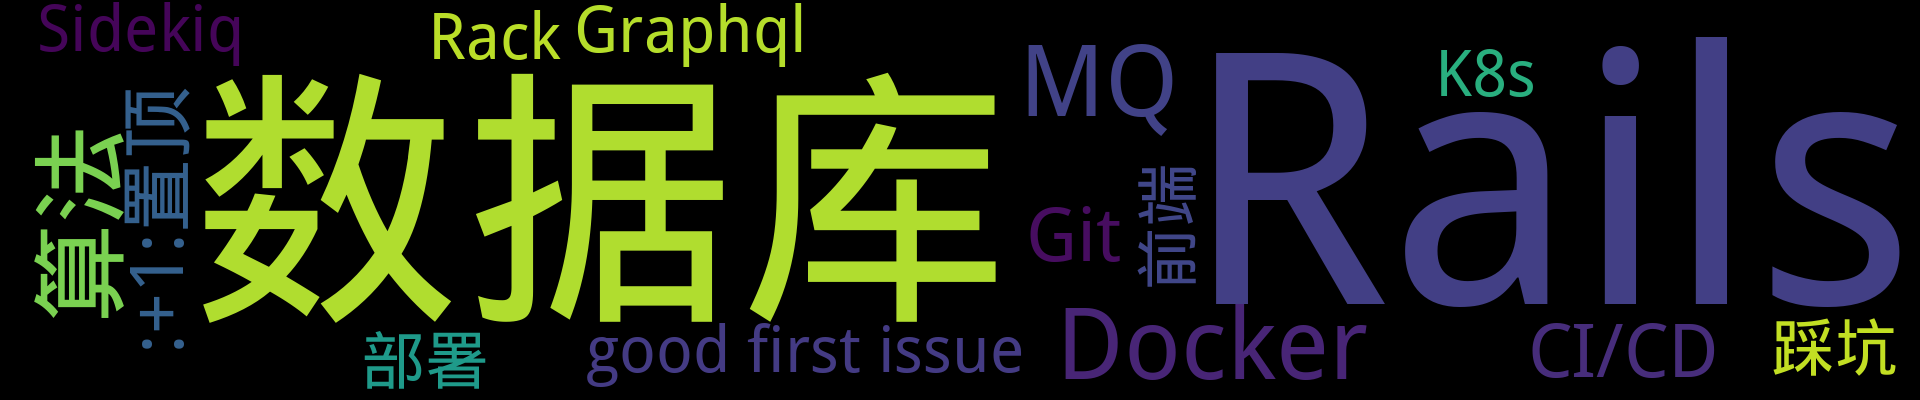
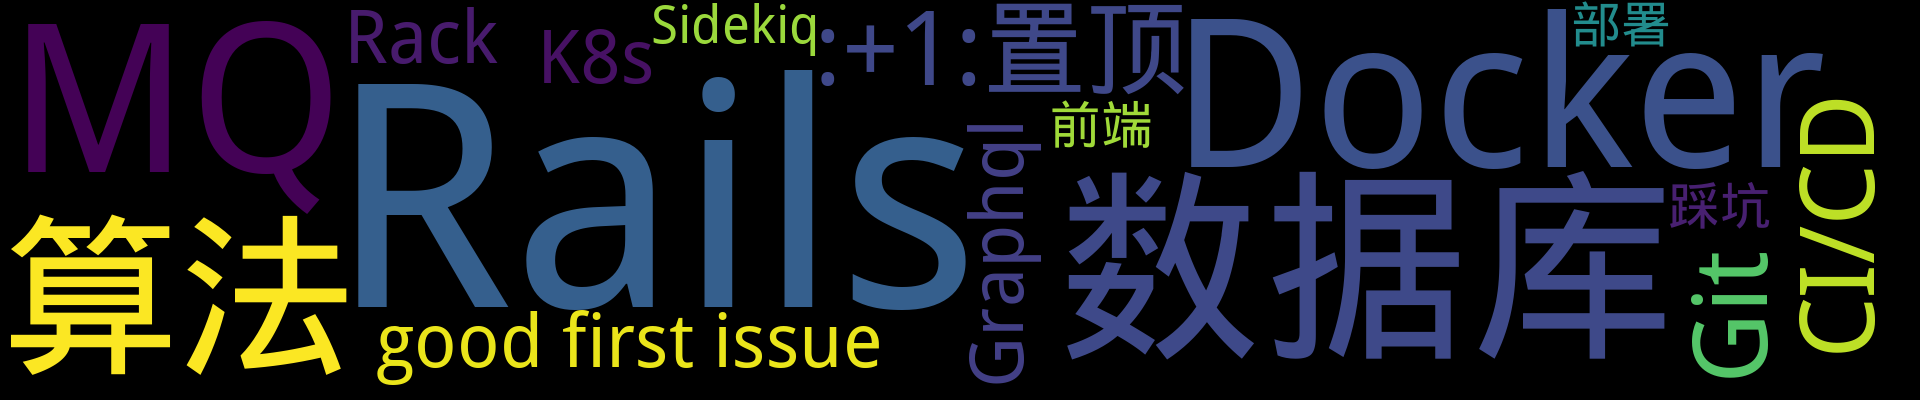
Update from Github Action

diff --git a/README.md b/README.md
@@ -1,9 +1,9 @@
 
 
 <p align='center'>
-    <img src="https://badgen.net/badge/labels/19"/>
+    <img src="https://badgen.net/badge/labels/20"/>
     <img src="https://badgen.net/github/issues/iamtomas/ghiblog"/>
-    <img src="https://badgen.net/badge/last-commit/2022-04-29 01:56:22"/>
+    <img src="https://badgen.net/badge/last-commit/2022-05-12 03:51:33"/>
     <img src="https://badgen.net/github/forks/iamtomas/ghiblog"/>
     <img src="https://badgen.net/github/stars/iamtomas/ghiblog"/>
     <img src="https://badgen.net/github/watchers/iamtomas/ghiblog"/>
@@ -144,6 +144,13 @@ https://gist.github.com/huacnlee/cd47d5550c47bc1cc46b91e679f014da
 </details>
 
 <details>
+<summary>Go	<sup>0:newspaper:</sup></summary>
+
+
+
+</details>
+
+<details>
 <summary>good first issue	<sup>1:newspaper:</sup></summary>
 
 - [基于 Github Action 自动生成并更新 GitHub Issue 博客的 ReadMe](https://github.com/iamtomas/note/issues/1)  <sup>0 :speech_balloon:</sup>  	 
@@ -185,7 +192,7 @@ https://gist.github.com/huacnlee/cd47d5550c47bc1cc46b91e679f014da
 </details>
 
 <details>
-<summary>Rails	<sup>7:newspaper:</sup></summary>
+<summary>Rails	<sup>6:newspaper:</sup></summary>
 
 - [Rails7 正式环境设置 `secret_key_base`](https://github.com/iamtomas/note/issues/44)  <sup>0 :speech_balloon:</sup>  	 
 - [搭建 Rspec 测试环境](https://github.com/iamtomas/note/issues/43)  <sup>0 :speech_balloon:</sup>  	 
@@ -193,7 +200,6 @@ https://gist.github.com/huacnlee/cd47d5550c47bc1cc46b91e679f014da
 - [Dotenv 配置修改后不刷新](https://github.com/iamtomas/note/issues/38)  <sup>0 :speech_balloon:</sup>  	 
 - [状态机（AASM）实现持久化](https://github.com/iamtomas/note/issues/31)  <sup>0 :speech_balloon:</sup>  	 
 - [Sidekiq 浅析](https://github.com/iamtomas/note/issues/19)  <sup>0 :speech_balloon:</sup>  	 
-- [初识Rails7](https://github.com/iamtomas/note/issues/11)  <sup>0 :speech_balloon:</sup>  	 
 
 
 </details>
@@ -229,12 +235,10 @@ https://gist.github.com/huacnlee/cd47d5550c47bc1cc46b91e679f014da
 </details>
 
 <details>
-<summary>数据库	<sup>4:newspaper:</sup></summary>
+<summary>数据库	<sup>2:newspaper:</sup></summary>
 
 - [PostgreSQL 查询原理](https://github.com/iamtomas/note/issues/18)  <sup>0 :speech_balloon:</sup>  	 
 - [MySQL 更新原理](https://github.com/iamtomas/note/issues/12)  <sup>0 :speech_balloon:</sup>  	 
-- [MySQL 的 InnoDB 记录与页结构](https://github.com/iamtomas/note/issues/10)  <sup>0 :speech_balloon:</sup>  	 
-- [MySQL 查询原理](https://github.com/iamtomas/note/issues/8)  <sup>0 :speech_balloon:</sup>  	 
 
 
 </details>
